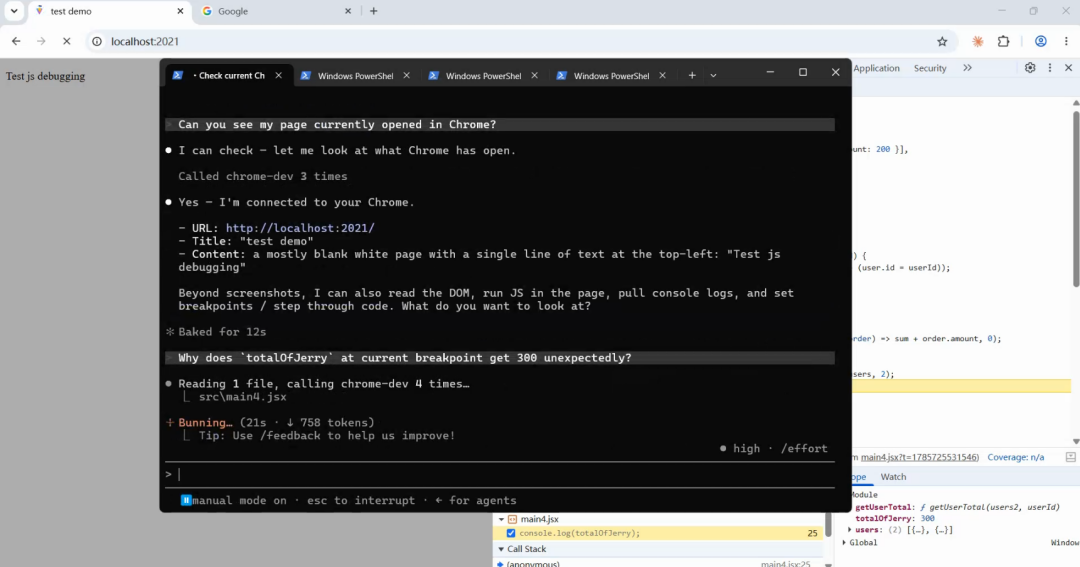
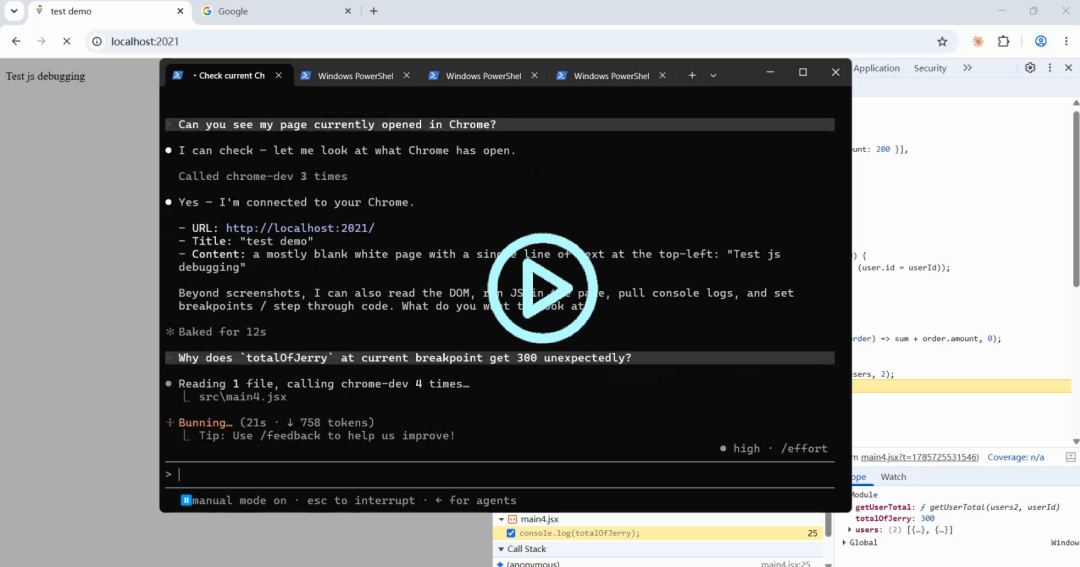
docs: 1.README 2.thumbnails 3.version

Changed region(s): [[0.4278, 0.3898, 0.5806, 0.6296]]

diff --git a/README.md b/README.md
@@ -8,9 +8,13 @@
 
 ## Demo video
 
-[![Debugging js](https://github.com/user-attachments/assets/d29339ab-a462-485e-bba9-b8061d941b97)](https://github.com/user-attachments/assets/9d4de615-9b96-4780-ac72-c4097083bf8c)
+### Debugging js
 
-[![Inspecting html and css](https://github.com/user-attachments/assets/97695d5e-7a8c-473e-90d7-f3eab0d00a6c)](https://github.com/user-attachments/assets/2b15035b-c144-474a-91e3-71bbb607bf37)
+[![Debugging js](https://github.com/user-attachments/assets/9f1a8066-4e0c-42cb-a95a-1bb58d5bbade)](https://github.com/user-attachments/assets/9d4de615-9b96-4780-ac72-c4097083bf8c)
+
+### Inspecting html and css
+
+[![Inspecting html and css](https://github.com/user-attachments/assets/d0a53c59-d3c8-4671-9387-9330cab952aa)](https://github.com/user-attachments/assets/2b15035b-c144-474a-91e3-71bbb607bf37)
 
 ## Why This Exists
 
